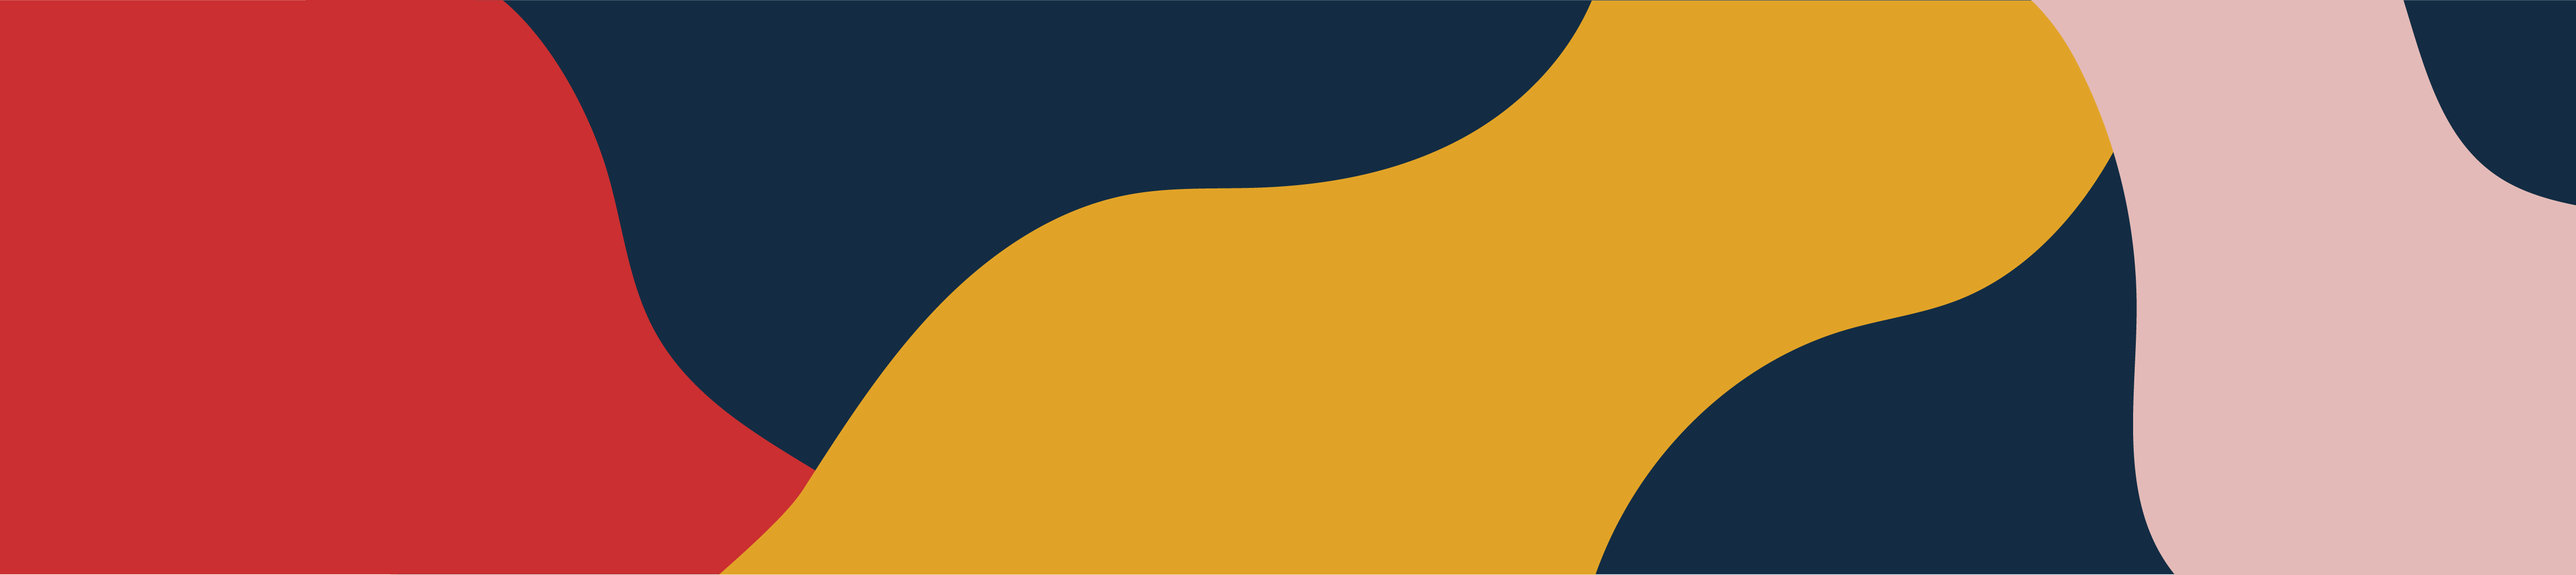
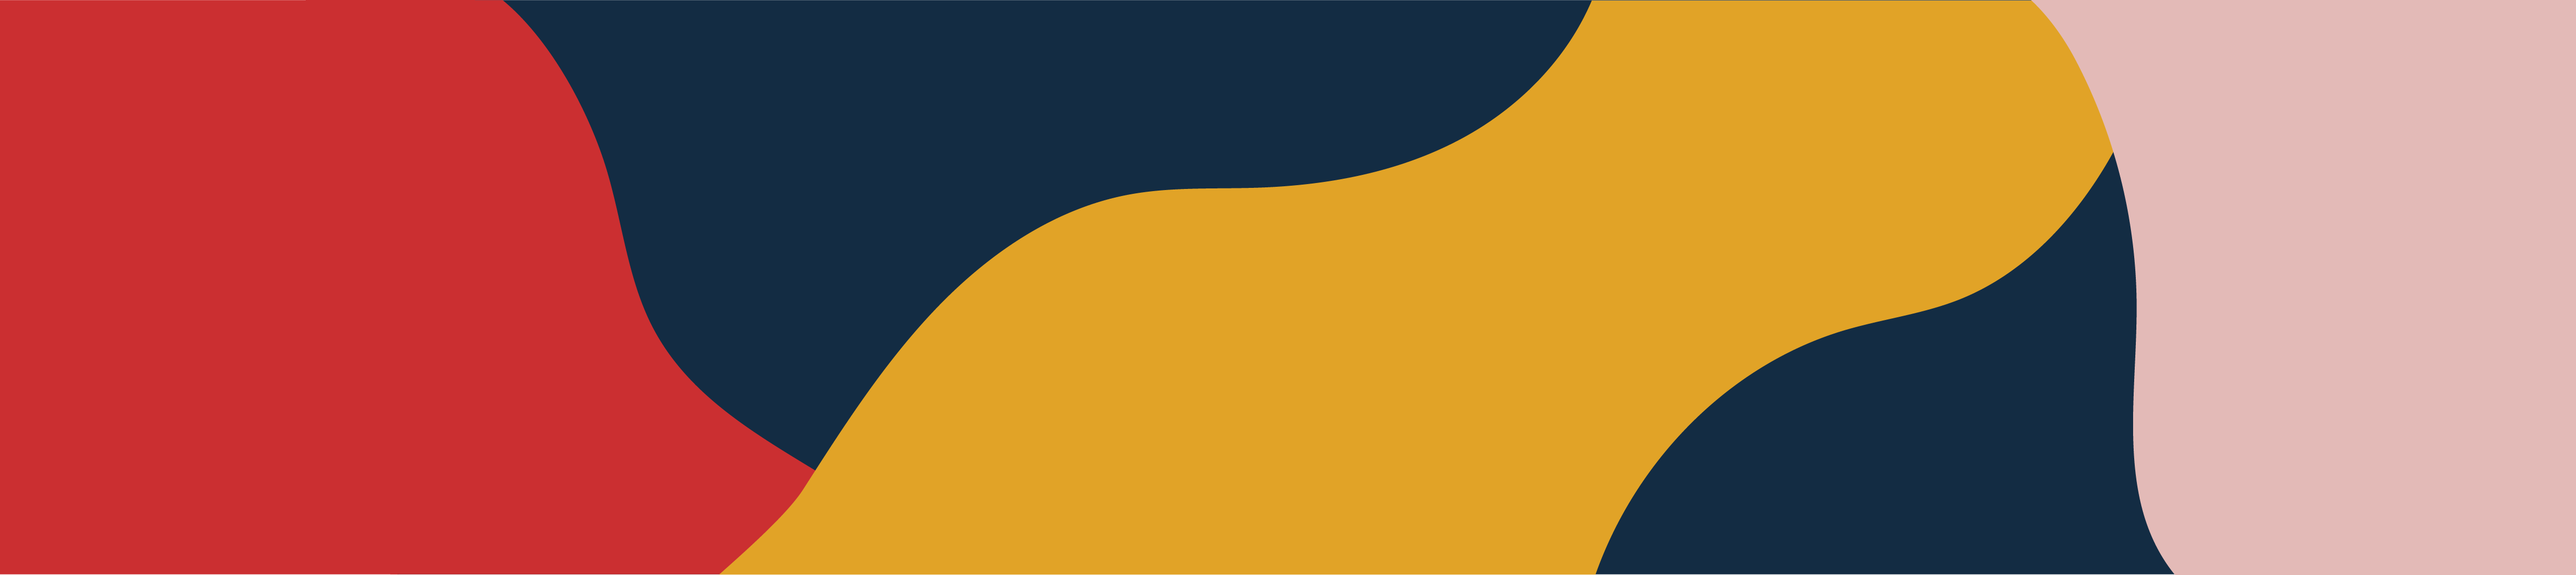
hero background

Changed region(s): [[0.9343, 0.0, 1.0, 0.3729]]

diff --git a/css/main.css b/css/main.css
@@ -424,6 +424,7 @@ video {
 #history {
   position: relative;
   width: 300%;
+  background-color: #e3bab7;
 }
 
 .history-header {
